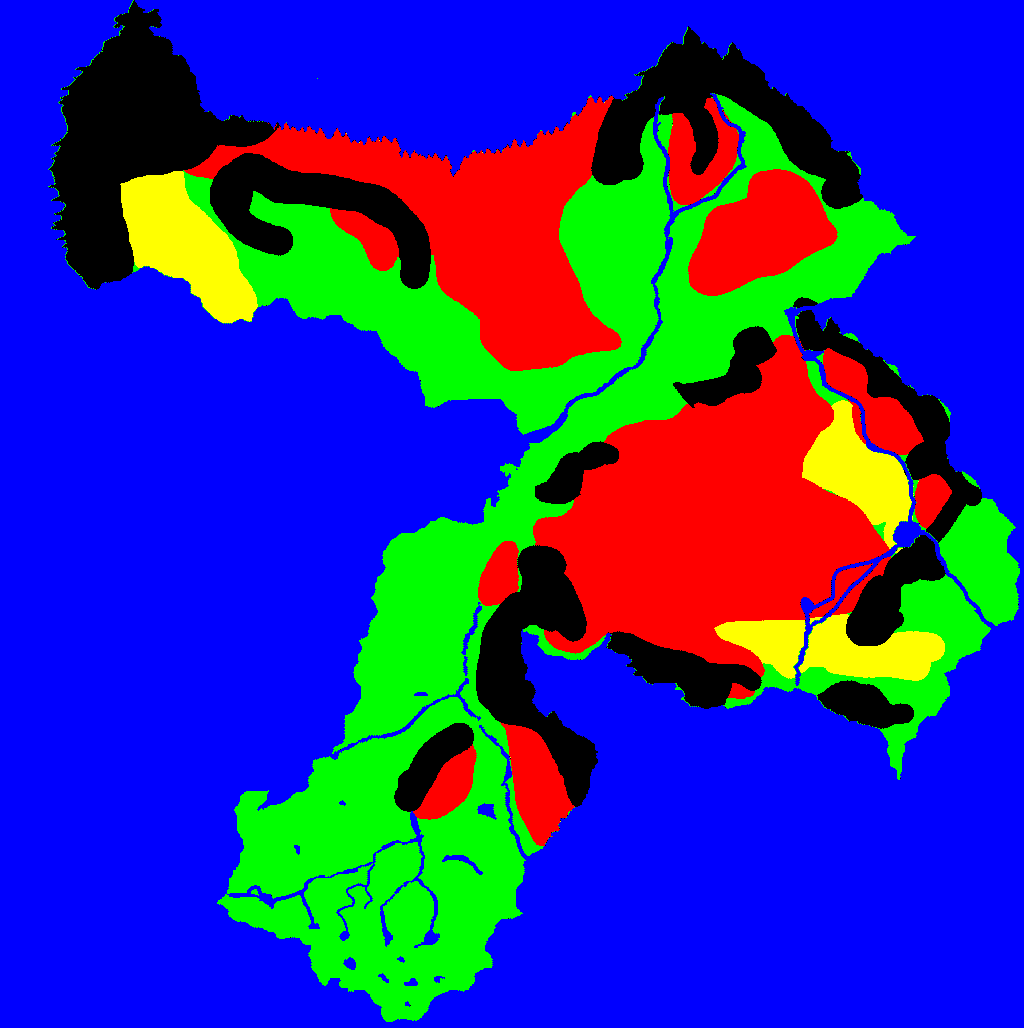
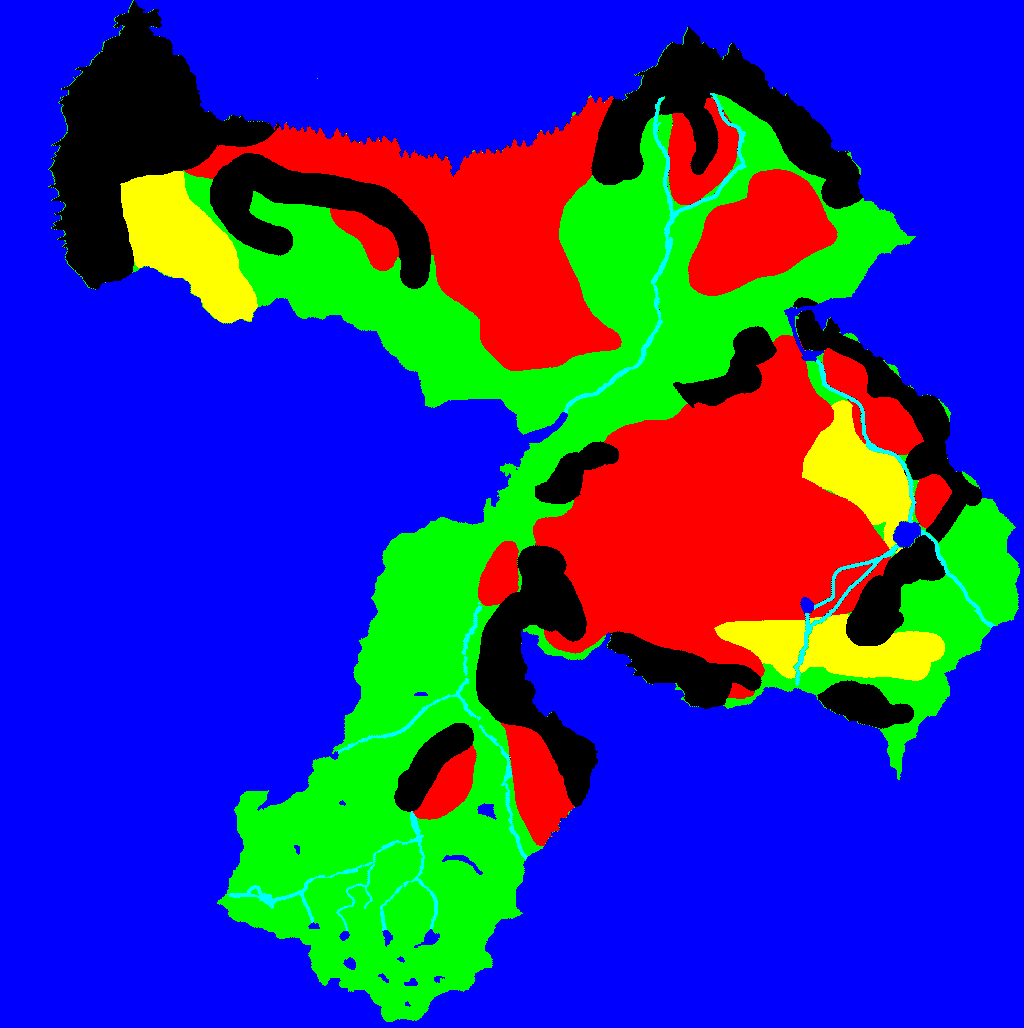
Add map reading code Add data for sample map fix map to include river tag

diff --git a/kingsreign/GameObjects/Map.cs b/kingsreign/GameObjects/Map.cs
@@ -14,34 +14,26 @@ namespace GameObjects
         public RealmType Realm = RealmType.Unknown;
     }
 
-    internal class MapConfig
+    public class Mine
+    {
+        public Point Location = Point.Empty;
+        public int TotalGold = -1;
+    }
+
+    public class MapConfig
     {
         public string Name = string.Empty;
         public string Base = string.Empty;
         public int Width = 0;
         public int Height = 0;
-        public int Section = 0;
+        public int SectionsW = 0;
+        public int SectionsH = 0;
 
         public List<Capital> Capitals = new List<Capital>();
-        public List<Point> Mines = new List<Point>();
-        public int StaringGold = -1;
-    }
-
-    public class Map
-    {
-        public string Name = string.Empty;
-
-        public Point Size = Point.Empty;
-
-        public Image TerrainMap;
-        public FileInfo[] ImageMaps;
-
-        public Capital[] Capitals;
-        public Point[] Mines;
-
+        public List<Mine> Mines = new List<Mine>();
         public int StaringGold = -1;
 
-        public static Map Load(FileInfo file)
+        public static MapConfig Read(FileInfo file)
         {
             if (!file.Exists)
                 return null;
@@ -59,12 +51,220 @@ namespace GameObjects
                 return null;
             }
 
+            return cfg;
+        }
+
+        public static bool Write ( MapConfig config,  FileInfo file )
+        {
+            FileStream fs = file.OpenWrite();
+            if (fs == null)
+                return false;
+
+            XmlSerializer xml = new XmlSerializer(typeof(MapConfig));
+            xml.Serialize(fs, config);
+            fs.Close();
+            return true;
+        }
+
+        public static MapConfig BuildFromDir(DirectoryInfo dir)
+        {
+            MapConfig cfg = new MapConfig();
+            cfg.Name = dir.Name;
+
+            int imageCountW = 0;
+            int imageCountH = 0;
+
+            while (true)
+            {
+                FileInfo file = new FileInfo(Path.Combine(dir.FullName, imageCountW.ToString() + "_0.png"));
+                if (file.Exists)
+                    imageCountW++;
+                else
+                {
+                    imageCountW--;
+                    break;
+                }
+            }
+
+            while (true)
+            {
+                FileInfo file = new FileInfo(Path.Combine(dir.FullName, "0_" + imageCountH.ToString() + ".png"));
+                if (file.Exists)
+                    imageCountH++;
+                else
+                {
+                    imageCountH--;
+                    break;
+                }
+            }
+
+            for ( int w = 0; w <= imageCountW; w++ )
+            {
+                Image img = Bitmap.FromFile(Path.Combine(dir.FullName, w.ToString() + "_0.png"));
+                cfg.Width += img.Width;
+            }
+
+            for (int h = 0; h <= imageCountH; h++)
+            {
+                Image img = Bitmap.FromFile(Path.Combine(dir.FullName, "0_" + h.ToString() + ".png"));
+                cfg.Height += img.Height;
+            }
+
+            cfg.SectionsH = imageCountH + 1;
+            cfg.SectionsW = imageCountW + 1;
+
+            cfg.Capitals.Add(new Capital());
+            cfg.Capitals.Add(new Capital());
+
+            cfg.Mines.Add(new Mine());
+
+            return cfg;
+        }
+    }
+
+    public class Map
+    {
+        public string Name = string.Empty;
+
+        public Point Size = Point.Empty;
+
+        public Image TerrainMap;
+        public FileInfo[] ImageMaps;
+
+        public Capital[] Capitals;
+        public Mine[] Mines;
+
+        public int StaringGold = -1;
+
+        protected double TerrainScaleX = -1;
+        protected double TerrainScaleY = -1;
+
+        public static Color SeaZone
+        {
+            get { return Color.Blue; }
+        }
+
+        public static Color PlainsZone
+        {
+            get { return Color.Green; }
+        }
+
+        public static Color DesertZone
+        {
+            get { return Color.Yellow; }
+        }
+
+        public static Color MountainZone
+        {
+            get { return Color.Black; }
+        }
+
+        public static Color Forrest
+        {
+            get { return Color.Red; }
+        }
+
+        public static Color IceZone
+        {
+            get { return Color.Black; }
+        }
+
+        public static Color RiverZone
+        {
+            get { return Color.Cyan; }
+        }
+
+        public enum TerrainType
+        {
+            eUnpassable,
+            eRiver,
+            eSea,
+            eNormal,
+            eSand,
+            eForrest,
+            eMountains,
+            eIce,
+        }
+
+        public TerrainType GetTerrain ( Point pos )
+        {
+            if (TerrainMap as Bitmap == null)
+                return TerrainType.eUnpassable;
+
+            // scale the position from world space to the terrain map
+            Point imagePos = new Point((int)(pos.X * TerrainScaleX), (int)(pos.Y * TerrainScaleY));
+
+            Color pix = (TerrainMap as Bitmap).GetPixel(imagePos.X, imagePos.Y);
+            
+            if (pix == Map.SeaZone)
+                return TerrainType.eSea;
+            else if (pix ==Map.RiverZone)
+                return TerrainType.eRiver;
+            else if (pix == Map.Forrest)
+                return TerrainType.eForrest;
+            else if (pix == Map.PlainsZone)
+                return TerrainType.eNormal;
+            else if (pix == Map.DesertZone)
+                return TerrainType.eSand;
+            else if (pix == Map.IceZone)
+                return TerrainType.eIce;
+            else if (pix == Map.MountainZone)
+                return TerrainType.eMountains;
+
+            return TerrainType.eUnpassable;
+        }
+
+        protected void Init ( )
+        {
+            if (TerrainMap != null)
+            {
+                TerrainScaleX = (double)TerrainMap.Width / (double)Size.X;
+                TerrainScaleY = (double)TerrainMap.Height / (double)Size.Y;
+            }
+        }
+
+        public static bool SaveInitalConfig ( DirectoryInfo dir )
+        {
+            if (!dir.Exists)
+                return false;
+
+            FileInfo file = new FileInfo(Path.Combine(dir.FullName, "config.xml"));
+
+            return MapConfig.Write(MapConfig.BuildFromDir(dir), file);
+        }
+
+        public static Map LoadFromConfig( FileInfo file )
+        {
+            MapConfig cfg = MapConfig.Read(file);
+            if (cfg == null)
+                return null;
+
             DirectoryInfo dir = new DirectoryInfo(Path.GetDirectoryName(file.FullName));
 
             Map map = new Map();
 
             map.Name = cfg.Name;
-            map.
+            map.Mines = cfg.Mines.ToArray();
+            map.Capitals = cfg.Capitals.ToArray();
+
+            map.TerrainMap = Bitmap.FromFile(Path.Combine(dir.FullName, "map.png"));
+            if (map.TerrainMap == null)
+                return null;
+
+            map.Size = new Point(cfg.Width, cfg.Height);
+
+            List<FileInfo> fileList = new List<FileInfo>();
+
+            for (int h = 0; h < cfg.SectionsH; h++)
+            {
+                for (int w = 0; w < cfg.SectionsW; w++)
+                    fileList.Add(new FileInfo(Path.Combine(dir.FullName, w.ToString() + "_" + h.ToString() + ".png")));
+            }
+
+            map.ImageMaps = fileList.ToArray();
+
+            map.Init();
+            return map;
         }
     }
 }

diff --git a/kingsreign/KingsReign/GameClient.cs b/kingsreign/KingsReign/GameClient.cs
@@ -1,6 +1,6 @@
 using System;
 using System.Collections.Generic;
-using System.Linq;
+using System.IO;
 using System.Text;
 
 using GameObjects;
@@ -21,7 +21,9 @@ namespace KingsReign
             if (!f.Exists)
                 return;
 
-            if (MapLoaded)
+            WorldMap = Map.LoadFromConfig(f);
+
+            if (MapLoaded != null)
                 MapLoaded(this, WorldMap);
         }
     }

diff --git a/kingsreign/KingsReign/GameWindow.cs b/kingsreign/KingsReign/GameWindow.cs
@@ -7,6 +7,8 @@ using System.Threading;
 using System.Text;
 using System.Windows.Forms;
 
+using GameObjects;
+
 namespace KingsReign
 {
     public partial class GameWindow : Form
